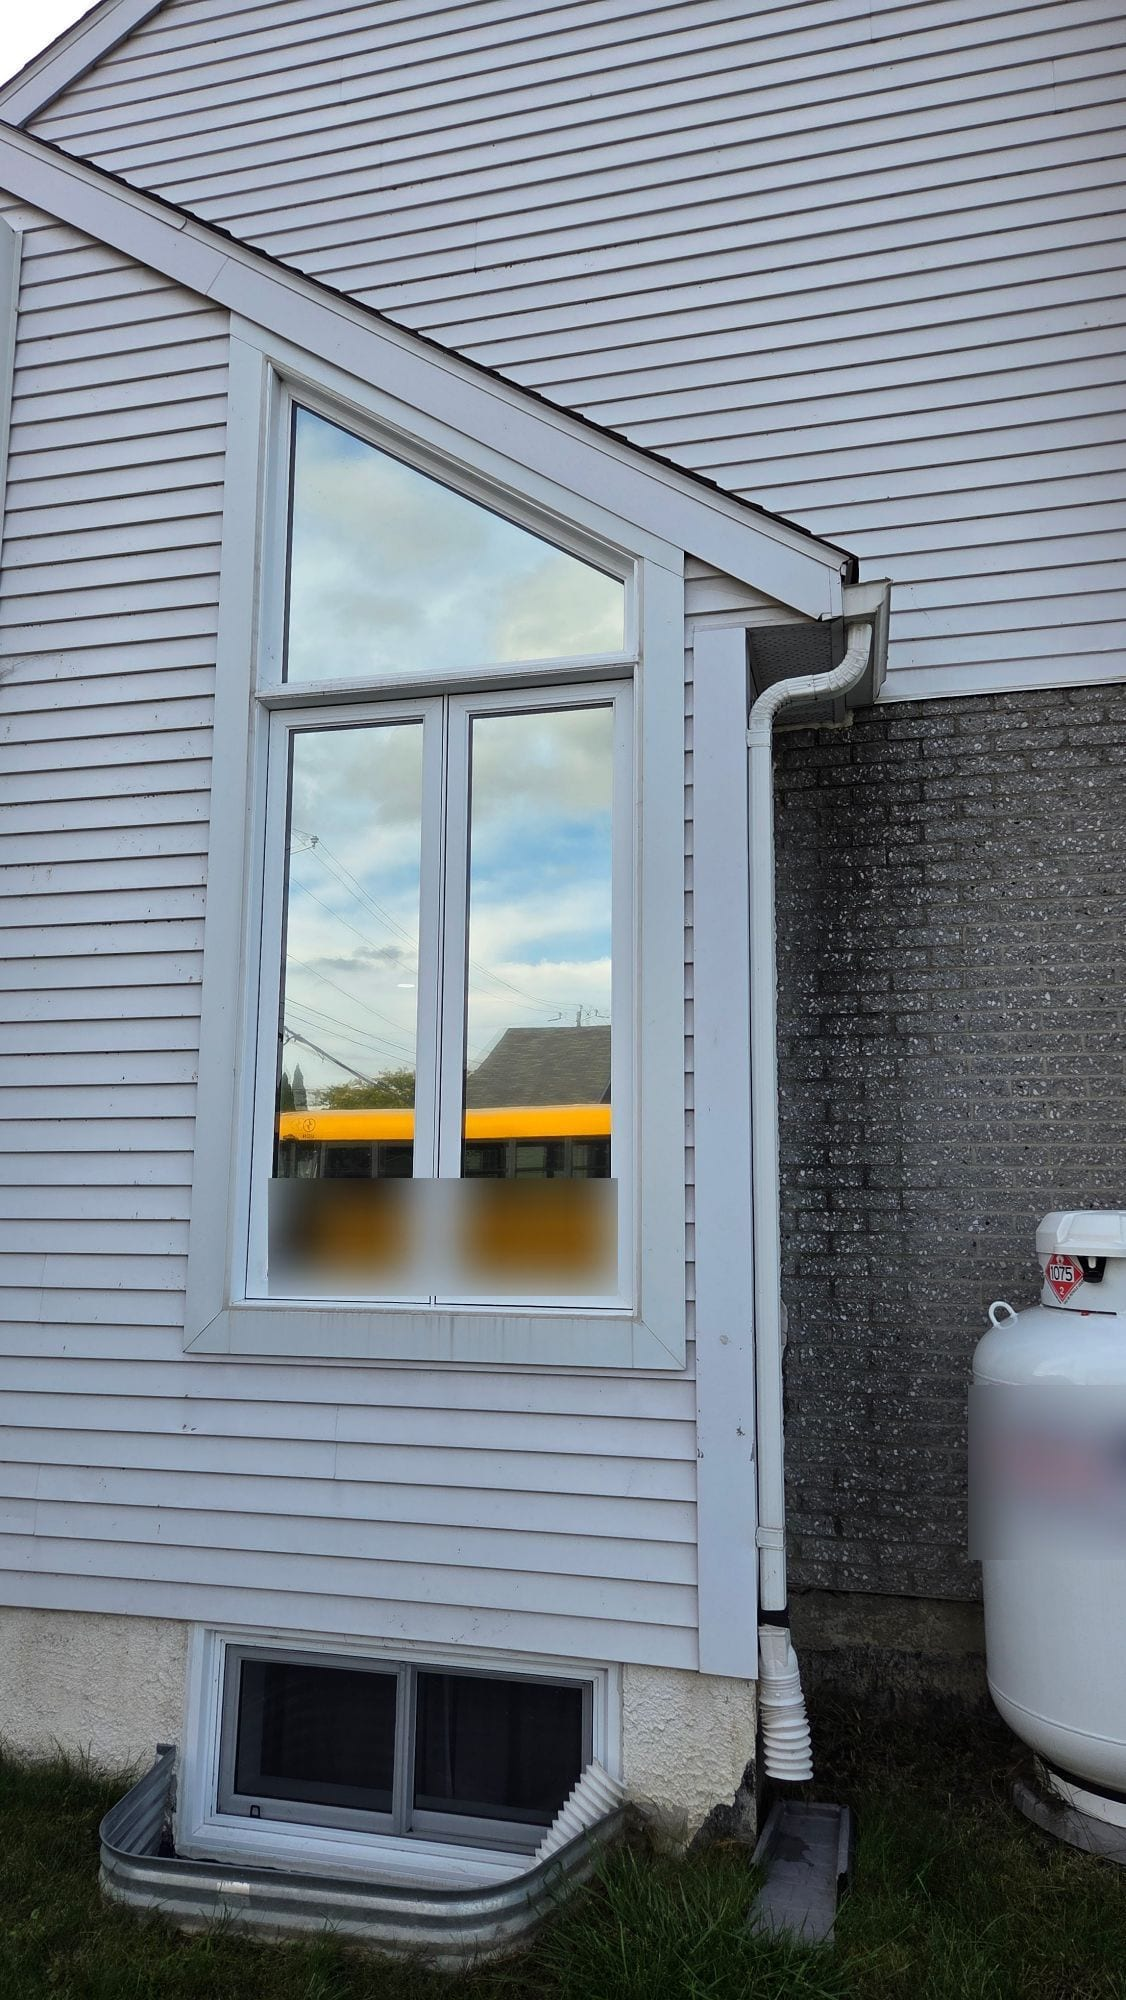
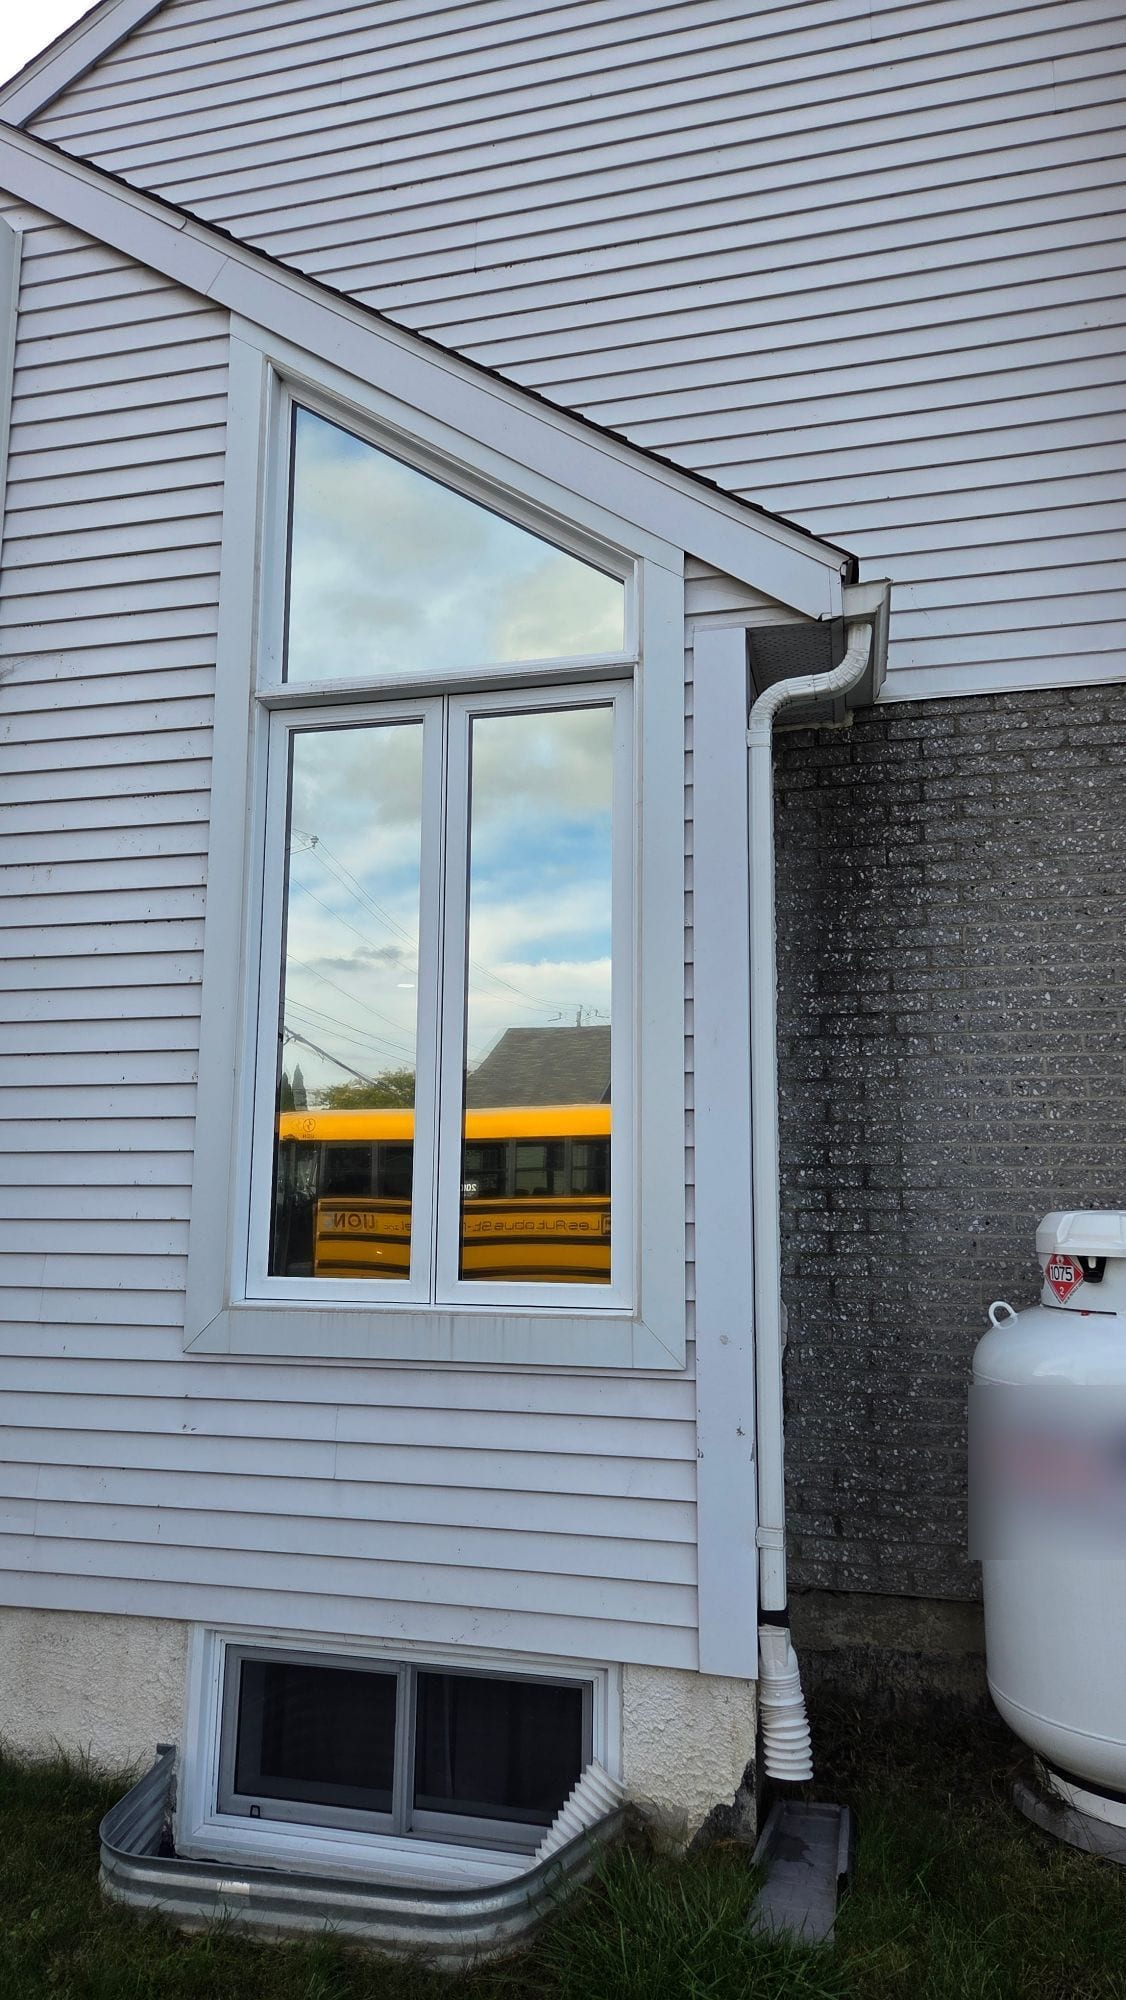
Show the school-bus reflection unblurred in the exterior triangular-window photo
The reflection is part of the result the photo illustrates. The propane
tank's lettering and phone number stay blurred.

Changed region(s): [[0.2176, 0.589, 0.5595, 0.651]]

diff --git a/docs/project-assets-checklist.md b/docs/project-assets-checklist.md
@@ -51,7 +51,7 @@ Media: `public/projets/maison-coin-de-rue/` (web copies, 1800px JPG; originals n
 | `avant-exterieur.jpg` / `apres-exterieur.jpg` | Pair 1 | overcast day vs next day, same viewpoint | house number (+ neighbour's in « avant ») |
 | `avant-salon.jpg` / `apres-salon.jpg` | Pair 2 | living-room corner | nothing needed |
 | `avant-triangle.jpg` / `apres-triangle.jpg` | Featured triangular window | kitchen window, inside | neighbour's number, a licence plate |
-| `triangle-exterieur.jpg` | Featured window, exterior | side of the house | reflected bus lettering, propane tank lettering and phone number |
+| `triangle-exterieur.jpg` | Featured window, exterior | side of the house | propane tank lettering and phone number (bus reflection left visible on purpose) |
 
 ## Left out on purpose
 
